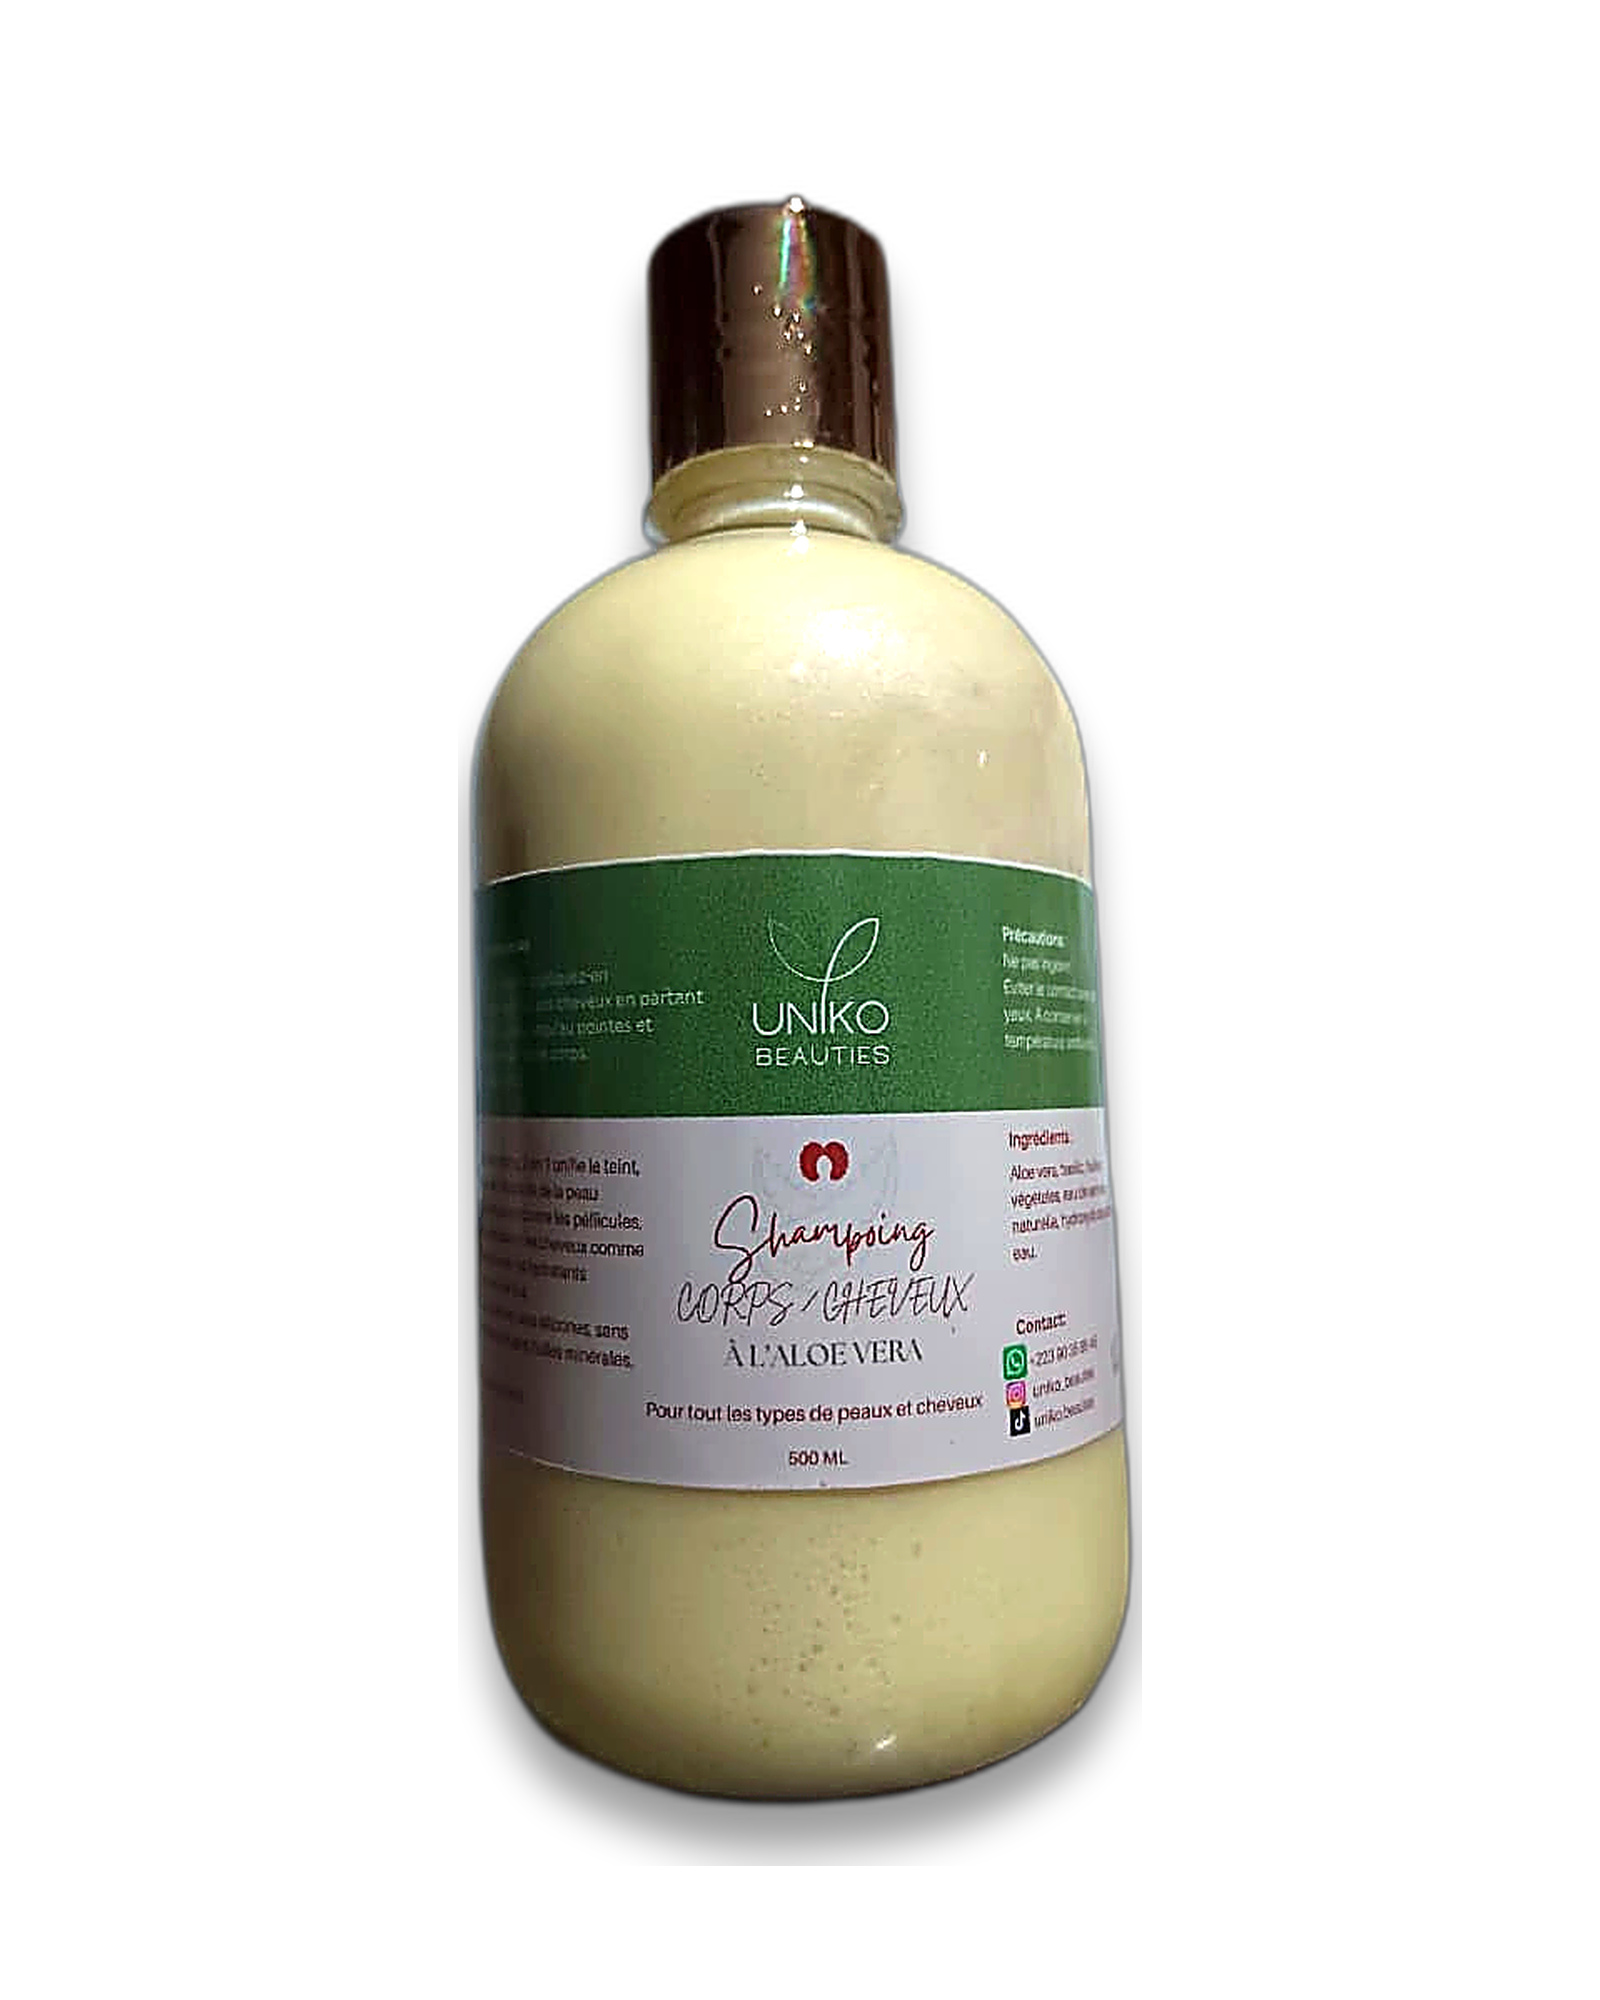
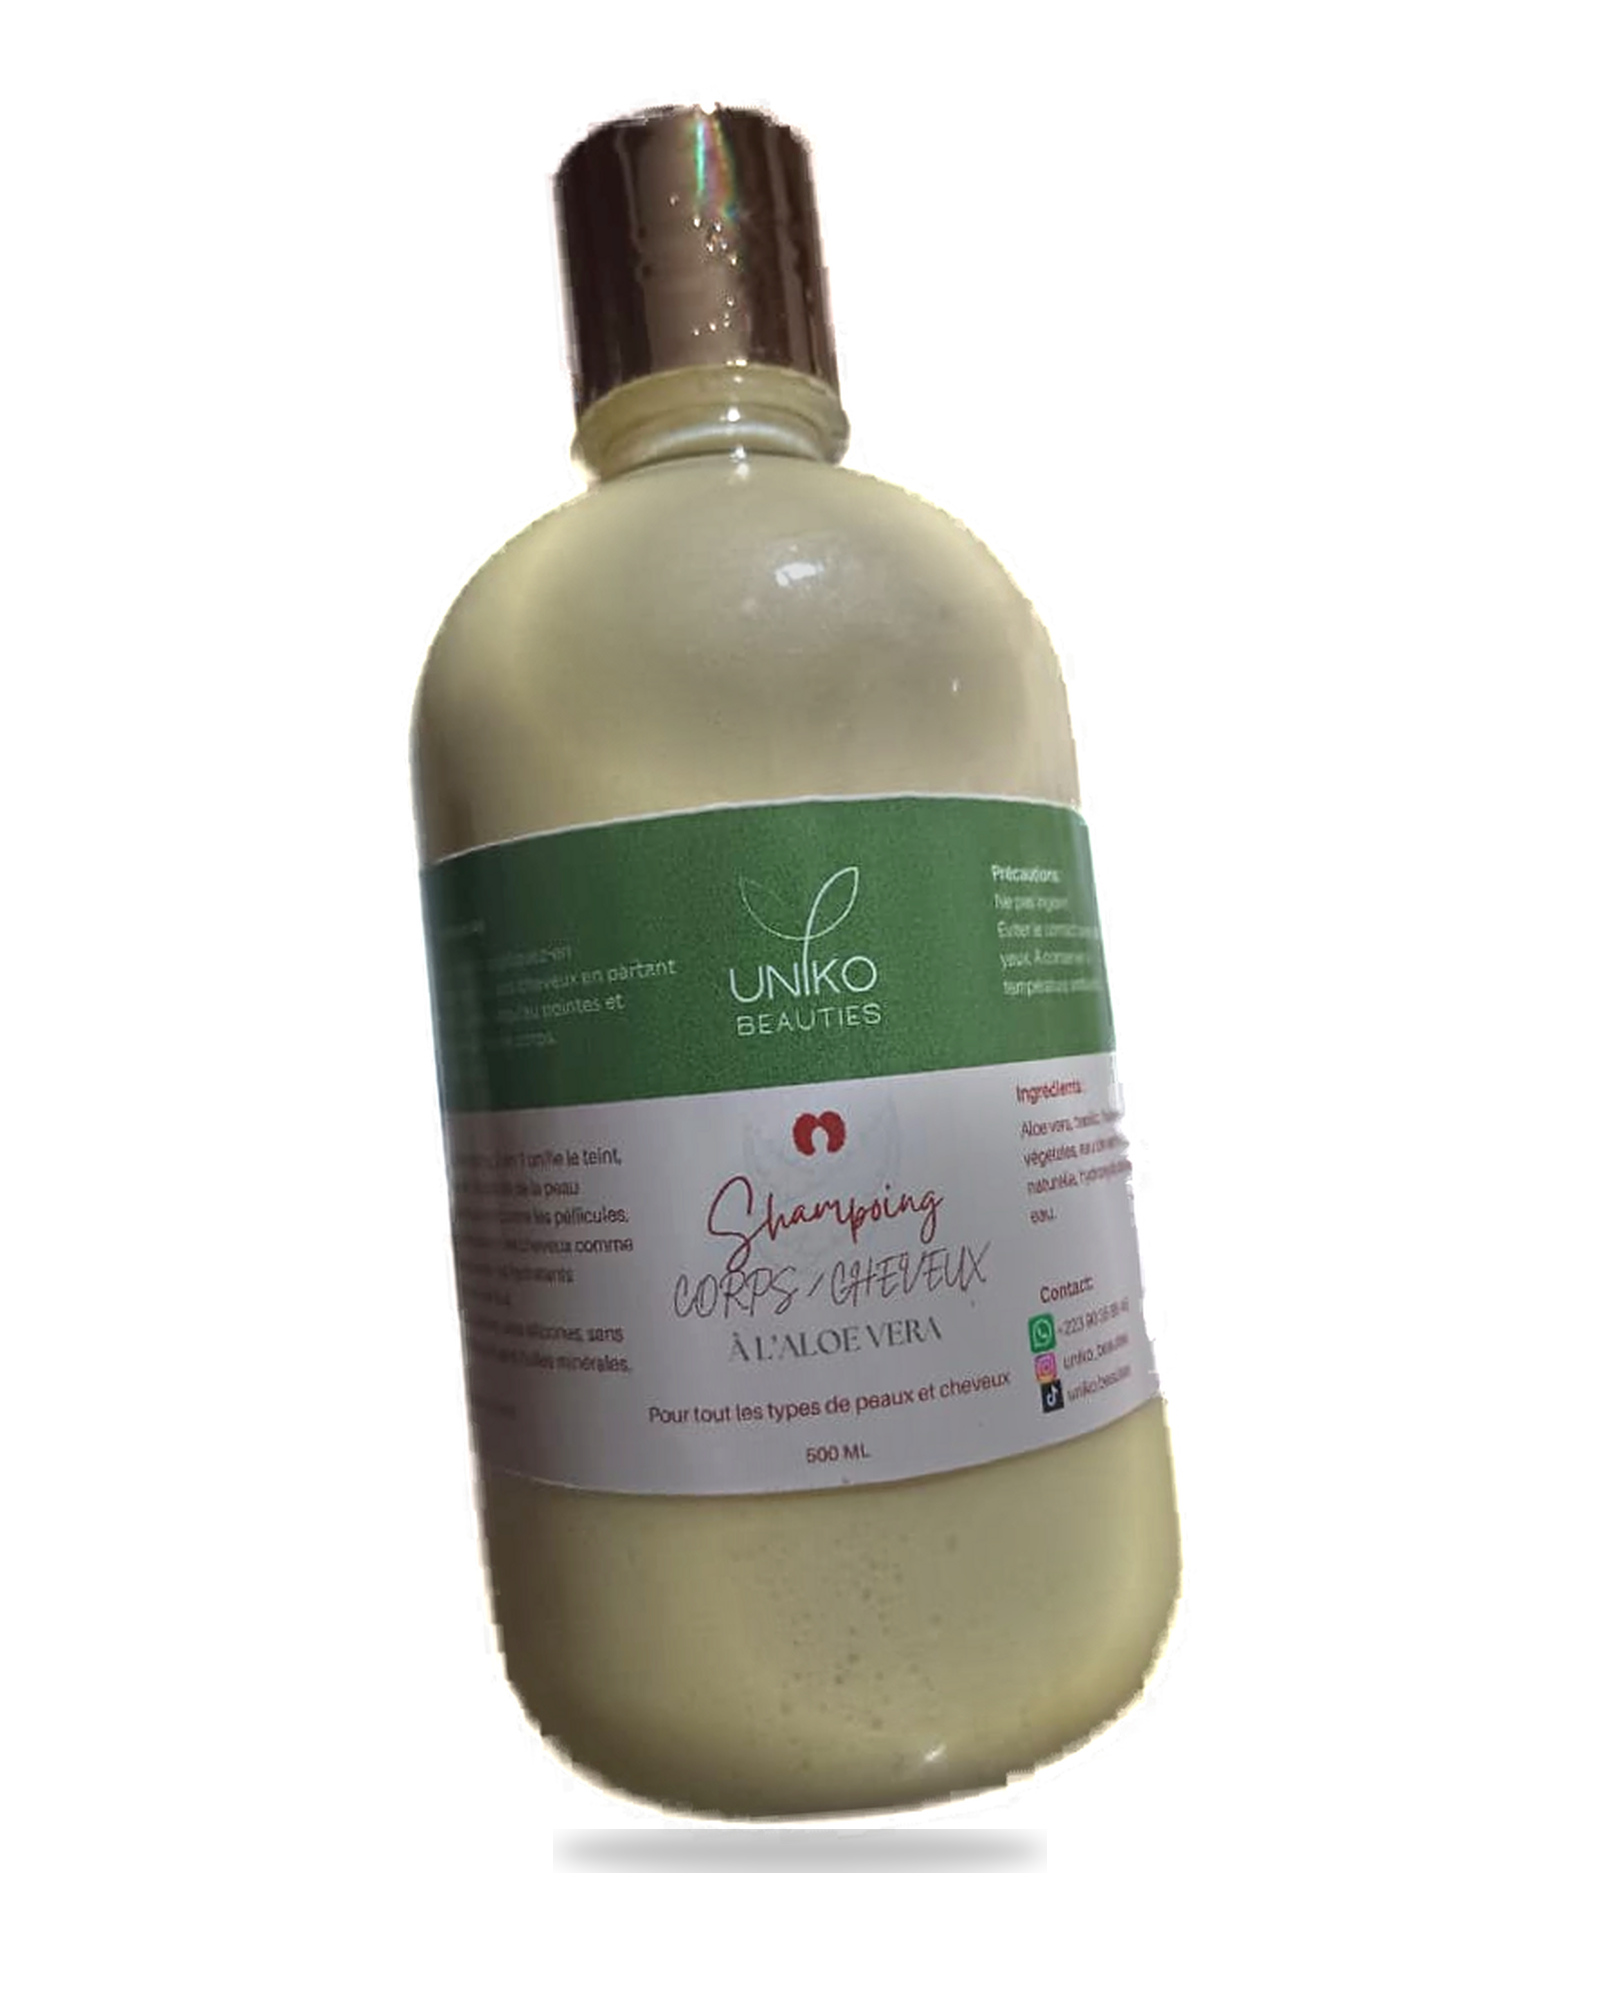
Studio aloe shot: even light, straight angle, bottom shadow only

Changed region(s): [[0.25, 0.031, 0.75, 0.961]]

diff --git a/scripts/make-aloe-studio.py b/scripts/make-aloe-studio.py
@@ -1,11 +1,11 @@
-"""Regenerate studio shot from original photo — no color/brightness editing."""
+"""Regenerate catalog-style studio shot from original photo (Laushe-like lighting)."""
 from __future__ import annotations
 
 import io
 from pathlib import Path
 
 import numpy as np
-from PIL import Image, ImageFilter
+from PIL import Image, ImageDraw, ImageFilter
 from rembg import new_session, remove
 
 SESSION = new_session("isnet-general-use")
@@ -16,23 +16,67 @@ OUT = ROOT / "aloe vera shampoo" / "aloe-vera-shampoo-studio.jpg"
 OUT_COPY = ROOT / "images" / "aloe-vera-shampoo-studio.jpg"
 
 W, H = 1600, 2000
-MARGIN = 0.09
-SHADOW_OFFSET_Y = 24
+MARGIN = 0.06
 JPEG_QUALITY = 97
 
 
 def defringe(rgba: Image.Image) -> Image.Image:
-    """Remove dark matting halo on edges (geometry only, not exposure)."""
     arr = np.array(rgba, dtype=np.float32)
     rgb, a = arr[..., :3], arr[..., 3] / 255.0
     edge = (a > 0.05) & (a < 0.92)
-    a3 = a[..., None]
-    # Un-premultiply fringed pixels toward foreground
-    safe = np.maximum(a3, 0.15)
+    safe = np.maximum(a[..., None], 0.15)
     unmul = np.clip(rgb / safe, 0, 255)
     rgb = np.where(edge[..., None], unmul, rgb)
     arr[..., :3] = rgb
     return Image.fromarray(np.clip(arr, 0, 255).astype(np.uint8), "RGBA")
+
+
+def straighten_vertical(rgba: Image.Image) -> Image.Image:
+    """Straight-on hero angle: rotate so bottle axis is vertical."""
+    alpha = np.array(rgba.split()[3])
+    ys, xs = np.nonzero(alpha > 140)
+    if len(xs) < 200:
+        return rgba
+    x0, x1 = xs.min(), xs.max()
+    y0, y1 = ys.min(), ys.max()
+    col_top = alpha[y0 : y0 + max(8, (y1 - y0) // 12), x0:x1].sum(axis=0)
+    col_bot = alpha[y1 - max(8, (y1 - y0) // 12) : y1, x0:x1].sum(axis=0)
+    top_cx = x0 + int(np.argmax(col_top > col_top.max() * 0.25))
+    bot_cx = x0 + int(np.argmax(col_bot > col_bot.max() * 0.25))
+    angle = np.degrees(np.arctan2(bot_cx - top_cx, y1 - y0))
+    if abs(angle) > 0.25 and abs(angle) < 7:
+        return rgba.rotate(-angle, resample=Image.Resampling.BICUBIC, expand=True)
+    return rgba
+
+
+def even_studio_light(rgba: Image.Image) -> Image.Image:
+    """Remove uneven side lighting; keep label colors intact."""
+    arr = np.array(rgba, dtype=np.float32)
+    r, g, b, a = arr[..., 0], arr[..., 1], arr[..., 2], arr[..., 3]
+    lum = 0.299 * r + 0.587 * g + 0.114 * b
+    lum_img = Image.fromarray(np.clip(lum, 0, 255).astype(np.uint8), "L")
+    illum = np.array(lum_img.filter(ImageFilter.GaussianBlur(45)), dtype=np.float32)
+    illum = np.maximum(illum, 28.0)
+    factor = np.clip(122.0 / illum, 0.84, 1.22)
+    mask = a > 20
+    for i in range(3):
+        ch = np.clip(arr[..., i] * factor, 0, 255)
+        arr[..., i] = np.where(mask, ch, arr[..., i])
+    arr[..., :3] = np.clip(arr[..., :3] + np.where(mask[..., None], 10, 0), 0, 255)
+    return Image.fromarray(arr.astype(np.uint8), "RGBA")
+
+
+def contact_shadow_layer(width: int) -> Image.Image:
+    """Soft oval shadow directly under product (no side cast shadow)."""
+    sw = int(width * 0.62)
+    sh = max(18, int(sw * 0.09))
+    layer = Image.new("RGBA", (sw, sh), (0, 0, 0, 0))
+    mask = Image.new("L", (sw, sh), 0)
+    ImageDraw.Draw(mask).ellipse((2, 2, sw - 3, sh - 3), fill=255)
+    mask = mask.filter(ImageFilter.GaussianBlur(radius=max(6, sh // 4)))
+    alpha = mask.point(lambda p: int(p * 0.26))
+    layer.putalpha(alpha)
+    return layer
 
 
 def main() -> None:
@@ -47,6 +91,8 @@ def main() -> None:
     )
     product = Image.open(io.BytesIO(cut)).convert("RGBA")
     product = defringe(product)
+    product = straighten_vertical(product)
+    product = even_studio_light(product)
 
     bbox = product.getbbox()
     if bbox:
@@ -60,19 +106,13 @@ def main() -> None:
     product = product.resize((nw, nh), Image.Resampling.LANCZOS)
 
     canvas = Image.new("RGBA", (W, H), (255, 255, 255, 255))
-
-    alpha = product.split()[3]
-    shadow = Image.new("L", (nw, nh), 0)
-    shadow.paste(alpha)
-    shadow = shadow.filter(ImageFilter.GaussianBlur(radius=max(14, int(nw * 0.03))))
-    shadow_rgba = Image.new("RGBA", (nw, nh), (0, 0, 0, 0))
-    sa = np.array(shadow, dtype=np.float32) * 0.34
-    shadow_rgba.putalpha(Image.fromarray(sa.astype(np.uint8)))
-
     px = (W - nw) // 2
-    py_center = (H - nh) // 2
-    canvas.alpha_composite(shadow_rgba, (px, py_center + SHADOW_OFFSET_Y))
-    canvas.alpha_composite(product, (px, py_center))
+    py = int(H * 0.5 - nh * 0.52)
+
+    shadow = contact_shadow_layer(nw)
+    shadow_y = py + nh - int(shadow.size[1] * 0.35)
+    canvas.alpha_composite(shadow, (px + (nw - shadow.size[0]) // 2, shadow_y))
+    canvas.alpha_composite(product, (px, py))
 
     rgb = canvas.convert("RGB")
     OUT.parent.mkdir(parents=True, exist_ok=True)
